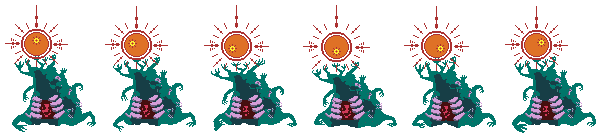
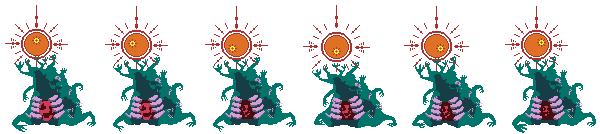
BossTakesDamage

diff --git a/Forgotten_Loop/Assets/Scripts/Projectiles&Effects/KnockbackMeleeAttack.cs b/Forgotten_Loop/Assets/Scripts/Projectiles&Effects/KnockbackMeleeAttack.cs
@@ -13,11 +13,19 @@ public class KnockbackMeleeAttack : MonoBehaviour
 
     }
 
+    private void OnTriggerEnter2D(Collider2D collision)
+    {
+        if (collision.gameObject.name == "BossProjectile")
+        {
+            Destroy(collision.gameObject);
+        }
+    }
+
     public IEnumerator ImpactoBala(Collision2D collision)
     {
         Vector2 dir = (transform.position - collision.transform.position).normalized;
         collision.gameObject.GetComponent<AgentMover>().enabled = false;
-        collision.gameObject.GetComponent<Rigidbody2D>().AddForce(-dir * 5, ForceMode2D.Impulse);
+        collision.gameObject.GetComponent<Rigidbody2D>().AddForce(-dir * 20, ForceMode2D.Impulse);
         yield return new WaitForSeconds(1f);
         collision.gameObject.GetComponent<AgentMover>().enabled = true;
 

diff --git a/Forgotten_Loop/Assets/Enemies/BossHPAndFeedback.cs b/Forgotten_Loop/Assets/Enemies/BossHPAndFeedback.cs
@@ -3,9 +3,9 @@ using System.Collections;
 
 public class BossHPAndFeedback : MonoBehaviour
 {
-    public int VidaActual = 0;
-    public int VidaMax = 0;
-    private int VidaAnterior;
+    public float VidaActual = 0;
+    public float VidaMax = 0;
+    private float VidaAnterior;
 
     public int NumeroMinimoAlmas = 0;
     public int NumeroMaximoAlmas = 10;
